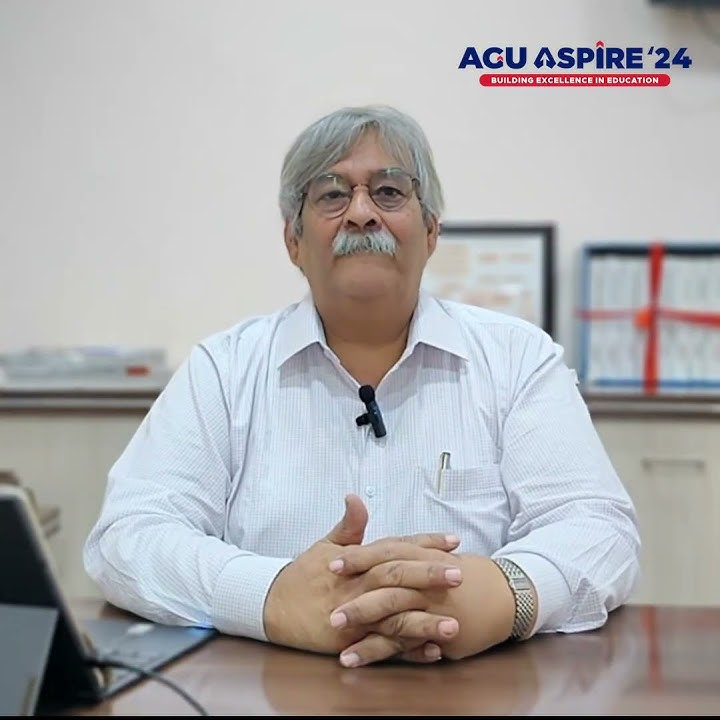
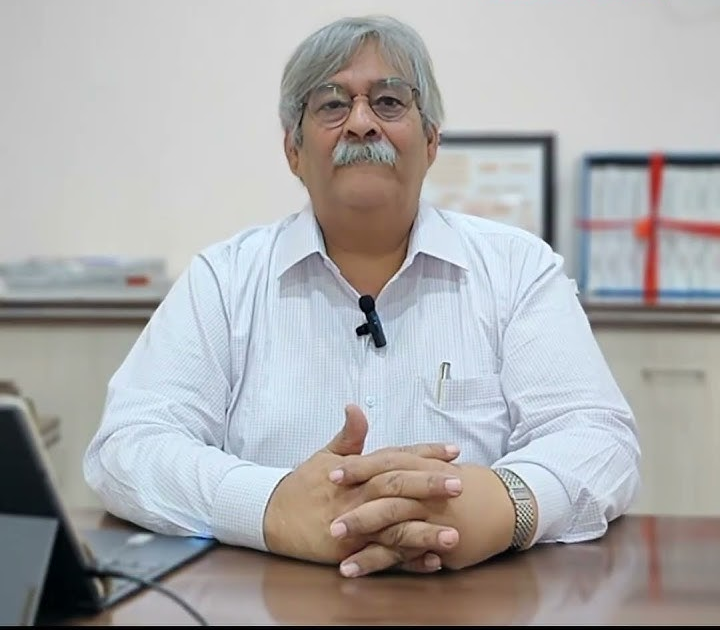
Chancellor Sir photo update

diff --git a/src/pages/about_team/AboutComponent/Chancellor.jsx b/src/pages/about_team/AboutComponent/Chancellor.jsx
@@ -1,6 +1,7 @@
 import React from "react";
 import "./About.css";
 import Chancellorsir from "../../../assets/images/callcor sir.jpg";
+import Chancellorsir2 from '../../../assets/images/Chancellorsir.jpg'
 
 const Chancellor = () => {
   return (
@@ -18,7 +19,12 @@ const Chancellor = () => {
             <img
               src={Chancellorsir}
               alt="Chancellor Sir"
-              className="object-cover object-top h-full w-full lg:w-[450px] transition-transform duration-300 group-hover:scale-105"
+              className="object-cover object-top md:hidden lg:block block h-full w-full lg:w-[450px] transition-transform duration-300 group-hover:scale-105"
+            />
+                <img
+              src={Chancellorsir2}
+              alt="Chancellor Sir"
+              className="object-cover object-top md:block lg:hidden hidden h-full w-full lg:w-[450px] transition-transform duration-300 group-hover:scale-105"
             />
             {/* Overlay Effect */}
             <div className="absolute inset-0 bg-gradient-to-t from-black via-transparent to-transparent opacity-0 group-hover:opacity-70 transition-opacity duration-300"></div>
